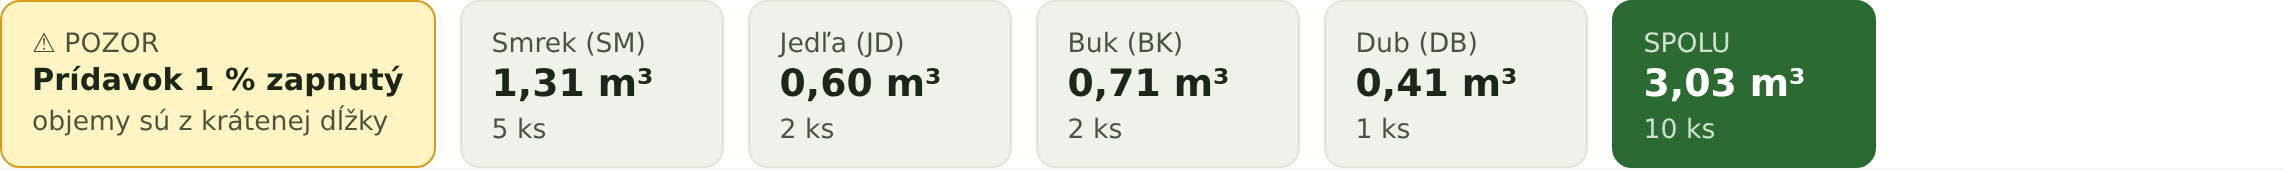
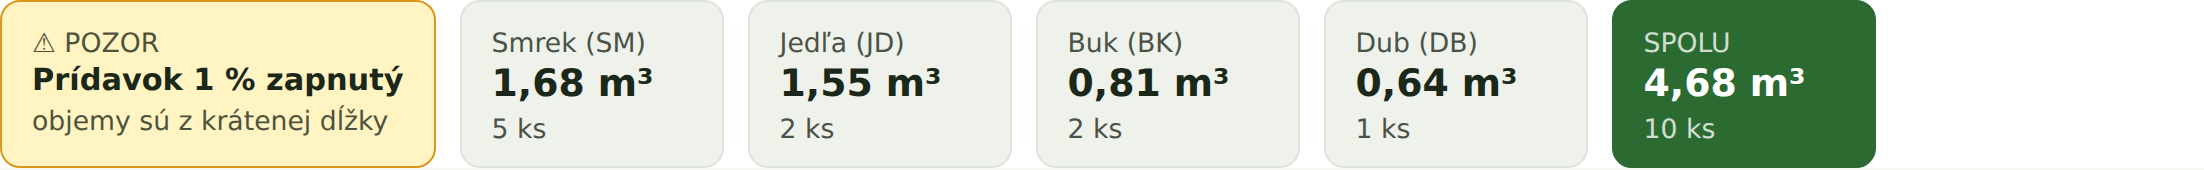
Prídavok 1 %: znenie a ukážka podľa presného výpočtu (nameraná ÷ 1,01)

diff --git a/index.html b/index.html
@@ -161,7 +161,7 @@
   </figure>
   <figure class="p1okno">
     <img src="obrazky/sumar_1p.png" alt="Súhrn so zapnutým odpočtom prídavku 1 %">
-    <figcaption>Voliteľný odpočet <strong>prídavku na dĺžku 1 %</strong> (najviac 10 cm na výrez, STN): program vás upozorní a objemy počíta zo skrátenej dĺžky.</figcaption>
+    <figcaption>Voliteľný odpočet <strong>prídavku na dĺžku 1 %</strong> (najviac 10 cm na výrez): z nameranej dĺžky program určí menovitú (nameraná ÷ 1,01 – napr. 4,04 m → 4,00 m) a z nej počíta objem. Upozornenie vidno priamo v súhrne.</figcaption>
   </figure>
 </div>
 
@@ -207,7 +207,7 @@
     <div class="karta">
       <span class="znak"><svg class="ic"><use href="#i-percent"/></svg></span>
       <h3>Prídavok na dĺžku 1 %</h3>
-      <p>Voliteľne odpočíta prídavok na dĺžku 1 % na výrez, najviac 10 cm. Objem sa počíta zo skrátenej dĺžky.</p>
+      <p>Voliteľne odpočíta prídavok na dĺžku 1 % na výrez, najviac 10 cm – z nameranej dĺžky určí menovitú (÷ 1,01) a z nej počíta objem.</p>
     </div>
     <div class="karta">
       <span class="znak"><svg class="ic"><use href="#i-euro"/></svg></span>